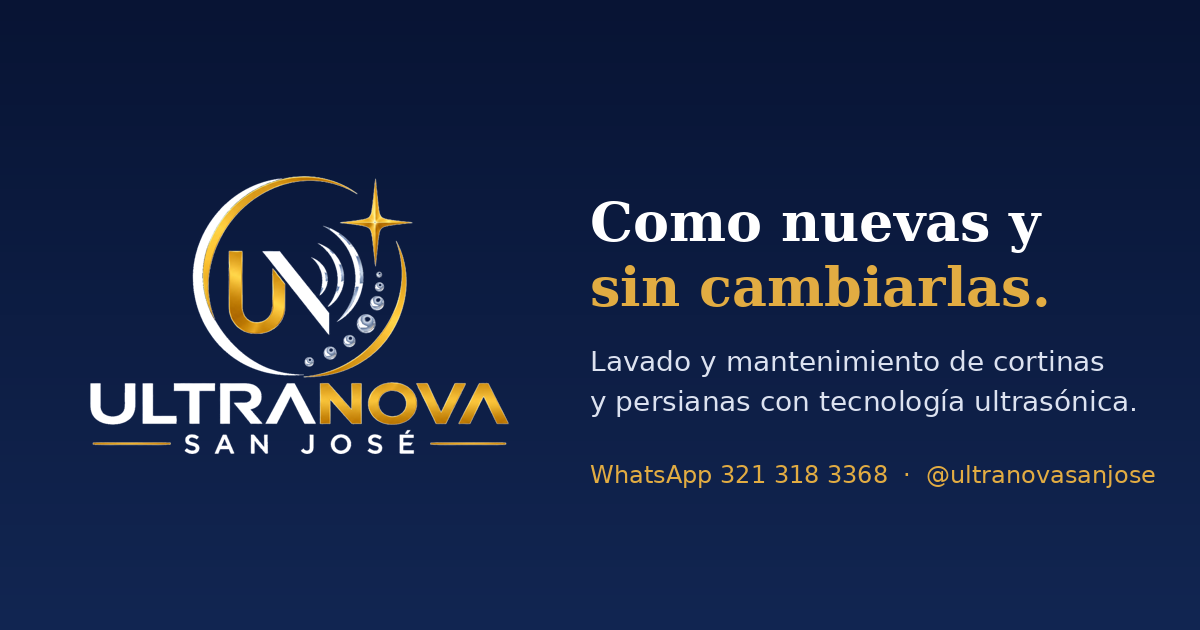
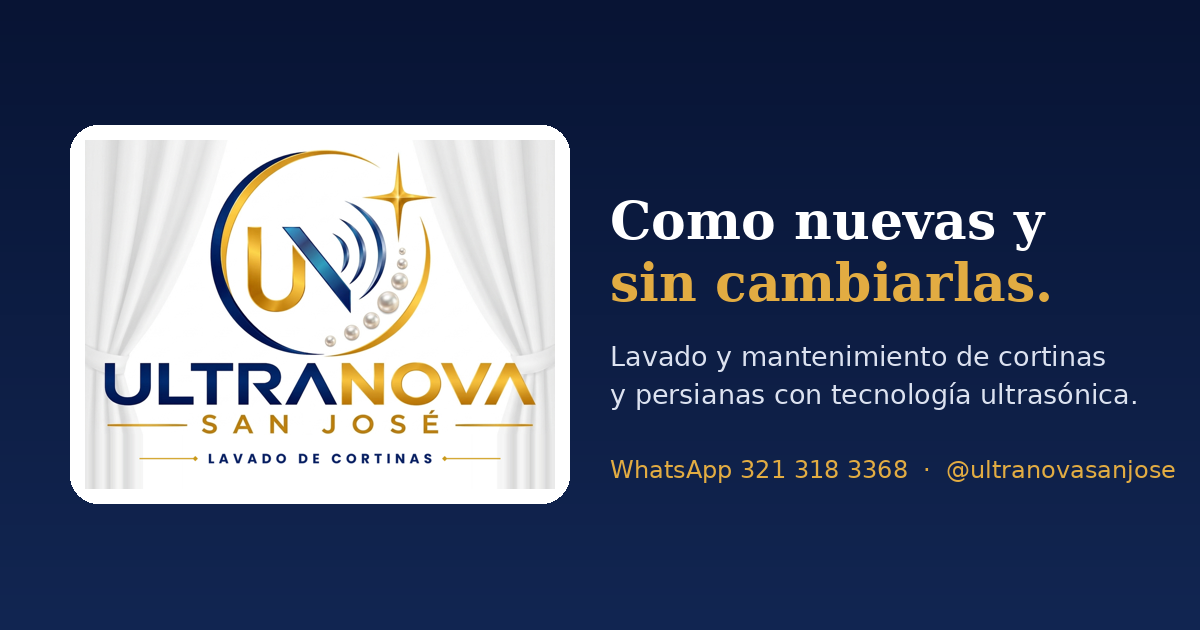
Add files via upload

Changed region(s): [[0.0308, 0.181, 0.9867, 0.8143]]

diff --git a/style.css b/style.css
@@ -136,9 +136,9 @@ p { margin: 0 0 1em; }
 .chips { list-style: none; padding: 0; margin: 0; display: flex; flex-wrap: wrap; gap: 8px; }
 .chips li { background: rgba(255,255,255,.1); border: 1px solid rgba(255,255,255,.22); padding: 6px 14px; border-radius: 999px; font-size: .9rem; }
 .hero-logo { display: flex; justify-content: center; }
-.logo-card { background: #fff; border-radius: 28px; padding: 22px 26px; box-shadow: 0 24px 60px rgba(0,0,0,.35); width: min(340px, 80%); }
+.logo-card { background: #fff; border-radius: 28px; padding: 10px; box-shadow: 0 24px 60px rgba(0,0,0,.35); width: min(340px, 80%); }
 .logo-card img { width: 100%; height: auto; }
-@media (max-width: 760px) { .hero-in { grid-template-columns: 1fr; } .hero-logo { order: -1; } .logo-card { width: 190px; padding: 14px 16px; border-radius: 20px; } }
+@media (max-width: 760px) { .hero-in { grid-template-columns: 1fr; } .hero-logo { order: -1; } .logo-card { width: 230px; padding: 8px; border-radius: 20px; } }
 
 /* ---------- SECCIONES ---------- */
 .sec { padding: clamp(44px, 7vw, 84px) 0; background: var(--bg); }
@@ -295,7 +295,7 @@ table.cot { width: 100%; border-collapse: collapse; margin: 6px 0 4px; }
 /* ---------- PIE Y FLOTANTE ---------- */
 .foot { background: var(--hero-1); color: rgba(255,255,255,.85); padding: 28px 0 90px; }
 .foot-in { display: flex; gap: 20px; align-items: center; flex-wrap: wrap; }
-.foot-in img { height: 70px; width: auto; }
+.foot-in img { height: 84px; width: auto; background: #fff; border-radius: 12px; }
 .foot-in p { margin: 0; font-size: .92rem; }
 .wa-flotante { position: fixed; right: 16px; bottom: 16px; z-index: 60; width: 58px; height: 58px; border-radius: 50%; background: var(--wa); color: #fff; display: grid; place-items: center; box-shadow: 0 8px 22px rgba(0,0,0,.35); transition: transform .15s; }
 .wa-flotante.oculto { opacity: 0; pointer-events: none; transform: scale(.8); }

diff --git a/app.js b/app.js
@@ -612,13 +612,13 @@
       var im = new Image();
       im.onload = function () {
         try {
-          var cv = document.createElement('canvas'), w = 360, h = Math.round(360 * im.naturalHeight / im.naturalWidth);
-          cv.width = w; cv.height = h; var cx = cv.getContext('2d'); cx.fillStyle = 'rgb(10,26,58)'; cx.fillRect(0, 0, w, h); cx.drawImage(im, 0, 0, w, h);
+          var cv = document.createElement('canvas'), w = 560, h = Math.round(560 * im.naturalHeight / im.naturalWidth);
+          cv.width = w; cv.height = h; var cx = cv.getContext('2d'); cx.fillStyle = '#fff'; cx.fillRect(0, 0, w, h); cx.drawImage(im, 0, 0, w, h);
           logoCache = { data: cv.toDataURL('image/jpeg', 0.92), r: w / h }; ok(logoCache);
         } catch (e) { logoCache = false; ok(false); }
       };
       im.onerror = function () { logoCache = false; ok(false); };
-      im.src = 'logo-blanco.png';
+      im.src = 'logo.png';
     });
   }
   function pdfT(x) { return String(x).replace(/²/g, '2'); }
@@ -632,7 +632,7 @@
     if (dibujar) {
       doc.setFillColor(NAVY[0], NAVY[1], NAVY[2]); doc.rect(0, 0, W, 34, 'F');
       doc.setFillColor(ORO[0], ORO[1], ORO[2]); doc.rect(0, 34, W, 1.4, 'F');
-      if (logo) { var lh = 24; doc.addImage(logo.data, 'JPEG', ML, 5, lh * logo.r, lh); }
+      if (logo) { var lh = 26; doc.setFillColor(255, 255, 255); doc.roundedRect(ML - 1, 3, lh * logo.r + 2, 28, 2, 2, 'F'); doc.addImage(logo.data, 'JPEG', ML, 4, lh * logo.r, lh); }
       else { doc.setTextColor(255, 255, 255); doc.setFont('helvetica', 'bold'); doc.setFontSize(16); doc.text(C.negocio, ML, 20); }
       doc.setTextColor(255, 255, 255); doc.setFont('helvetica', 'bold'); doc.setFontSize(20); doc.text('COTIZACIÓN', W - MR, 17, { align: 'right' });
       doc.setFont('helvetica', 'normal'); doc.setFontSize(9); doc.setTextColor(ORO[0], ORO[1], ORO[2]);

diff --git a/index.html b/index.html
@@ -60,7 +60,7 @@
 <header class="top" id="top">
   <div class="wrap top-in">
     <a class="marca" href="#inicio" aria-label="UltraNova San José, inicio">
-      <img src="logo-mark.png" alt="" width="44" height="38">
+      <img src="logo-mark.png" alt="" width="42" height="38">
       <span>UltraNova <b>San José</b></span>
     </a>
     <button class="menu-btn" id="menuBtn" type="button" aria-expanded="false" aria-controls="nav">Menú</button>
@@ -101,7 +101,7 @@
         </ul>
       </div>
       <div class="hero-logo">
-        <div class="logo-card"><img src="logo.png" alt="Logo UltraNova San José" width="320" height="212"></div>
+        <div class="logo-card"><img src="logo.png" alt="Logo UltraNova San José" width="320" height="238"></div>
       </div>
     </div>
   </section>
@@ -274,7 +274,7 @@
 
 <footer class="foot">
   <div class="wrap foot-in">
-    <img src="logo-blanco.png" alt="UltraNova San José" width="106" height="70">
+    <img src="logo.png" alt="UltraNova San José" width="113" height="84">
     <p><strong>Tecnología que renueva. Confianza que permanece.</strong><br>© <span id="anio">2026</span> UltraNova San José · Distribuidor autorizado · <span id="verLista">Lista de Precios 2026</span></p>
   </div>
 </footer>
